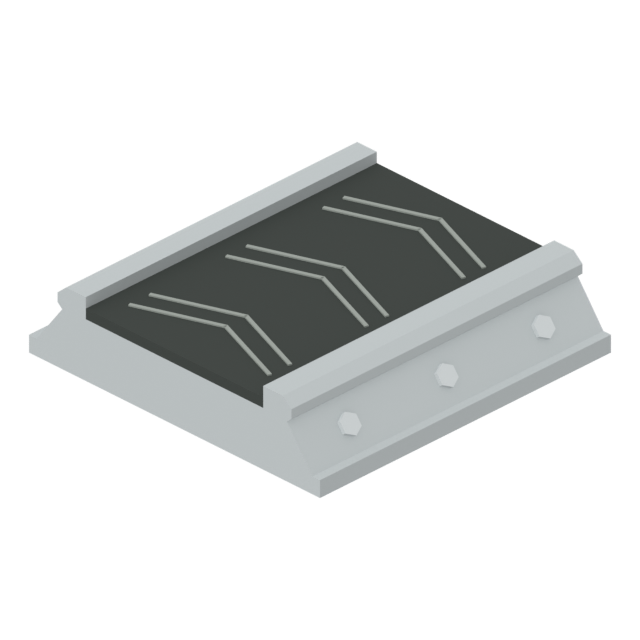
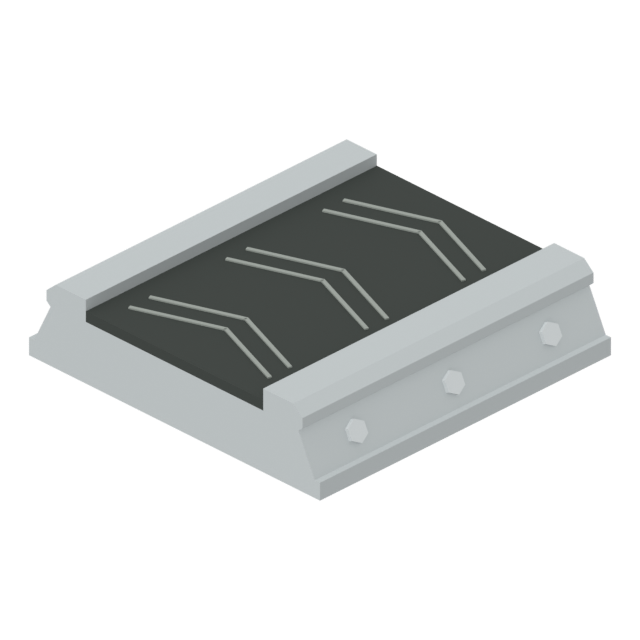
Stand the rail's wall up, slim the ramp's legs, and a ramp without legs
Flattened, the rail's long outer slope made a belt's end look like a
steeply leaning parallelogram. Its head now stands further out and its
wall more upright. The ramp's thick piers become slim trestles: a post
under each rail on a small foot, a tie between, a knee brace up to the
rail. ramp_bare has no trestles, so ramps can be stacked one above
another; belts_stack shows three whole lines stacked.

Claude-Session: https://claude.ai/code/session_01W5XMnWw2PL68atZgiMiQxw

diff --git a/art/catalog/v2.html b/art/catalog/v2.html
@@ -126,7 +126,7 @@
       <figcaption>
         <h3>경사 벨트</h3>
         <p class="recipe">두 칸에 걸쳐 한 칸 높이를 올림</p>
-        <p class="meta">2×1칸 · 높이 1.2칸(3.7스터드) · 출입구 없음 · 삼각형 1,828</p>
+        <p class="meta">2×1칸 · 높이 1.2칸(3.7스터드) · 출입구 없음 · 삼각형 1,876</p>
       </figcaption>
     </figure>
     <figure class="card">

diff --git a/art/v2/belts.py b/art/v2/belts.py
@@ -109,11 +109,11 @@ def ramp_profile(low, high):
     return lift, pitch
 
 
-def ramp(m, low=True, high=True, flow=1):
+def ramp(m, low=True, high=True, flow=1, legs=True):
     """Ramp, 2x1: from the west, low, to the east, one cell higher. Which ends are level depends on
     what it meets (see ramp_profile): level against a flat belt, sloping on against another ramp.
-    It stands on two portal piers, a leg under each rail and a tie between them, the belt's underside
-    open between the legs."""
+    It stands on two slim trestles (with legs=False, on nothing: for ramps stacked one above another,
+    where trestles would stand on the belt below)."""
     lift_at, pitch_at = ramp_profile(low, high)
     n = 24
     xs = [-1.0 + 2.0 * i / n for i in range(n + 1)]
@@ -142,15 +142,20 @@ def ramp(m, low=True, high=True, flow=1):
         bolt(m)
         m.stack.pop()
         m.stack.pop()
-    for xc in (0.10, 0.80):                                   # piers
-        for s in SIDES:
-            ya, yb = sorted((s * 0.27, s * 0.47))
-            m.prism([(xc - 0.17, 0.02), (xc + 0.17, 0.02), (xc + 0.10, lift_at(xc + 0.10) + 0.02), (xc - 0.10, lift_at(xc - 0.10) + 0.02)],
-                    ya, yb, "Y", T)
-            ya, yb = sorted((s * 0.25, s * 0.49))
-            m.prism([(xc - 0.20, 0.0), (xc + 0.20, 0.0), (xc + 0.18, 0.06), (xc - 0.18, 0.06)], ya, yb, "Y", TD)   # foot
-        zt = lift_at(xc) * 0.55
-        m.prism([(xc - 0.05, zt - 0.05), (xc + 0.05, zt - 0.05), (xc + 0.035, zt + 0.05), (xc - 0.035, zt + 0.05)], -0.28, 0.28, "Y", ST)   # tie
+    if not legs:
+        return
+    for xc in (0.10, 0.80):                                   # trestles: a slim post under each rail on a small foot, a tie
+        for s in SIDES:                                       # between the two, and a knee brace from each post up to the rail
+            ya, yb = sorted((s * 0.385, s * 0.435))
+            m.prism([(xc - 0.028, 0.02), (xc + 0.028, 0.02), (xc + 0.028, lift_at(xc + 0.028) + 0.02), (xc - 0.028, lift_at(xc - 0.028) + 0.02)],
+                    ya, yb, "Y", ST)
+            ya, yb = sorted((s * 0.34, s * 0.48))
+            m.prism([(xc - 0.09, 0.0), (xc + 0.09, 0.0), (xc + 0.07, 0.035), (xc - 0.07, 0.035)], ya, yb, "Y", T)
+            xk, zk = xc - 0.24, lift_at(xc) * 0.42            # the brace: from part way up the post to the rail further down the slope
+            ya, yb = sorted((s * 0.395, s * 0.425))
+            m.prism([(xc - 0.02, zk - 0.03), (xc - 0.02, zk + 0.03), (xk, lift_at(xk) + 0.02), (xk - 0.06, lift_at(xk - 0.06) + 0.02)], ya, yb, "Y", ST)
+        zt = lift_at(xc) * 0.62
+        m.prism([(xc - 0.022, zt - 0.022), (xc + 0.022, zt - 0.022), (xc + 0.022, zt + 0.022), (xc - 0.022, zt + 0.022)], -0.40, 0.40, "Y", ST)   # tie
 
 
 def ramp_start(m):
@@ -166,3 +171,8 @@ def ramp_mid(m):
 def ramp_end(m):
     """The last ramp of a run: sloping on from the ramp below, level where it meets the flat belt."""
     ramp(m, False, True)
+
+
+def ramp_bare(m):
+    """A ramp without trestles, level at both ends."""
+    ramp(m, True, True, legs=False)

diff --git a/art/v2/set2.py b/art/v2/set2.py
@@ -1678,18 +1678,24 @@ def belts_demo(m):
 belts_demo.frame, belts_demo.shadow = {"iso": (12.6, 0.9), "side": (7.0, 1.0), "top": (7.4, 0.6), "end": (6.0, 1.0)}, True
 _hero.HEROES["belts_demo"] = belts_demo
 def belts_stack(m):
-    """Not a machine: three belts one cell above another, things riding each under the one above, to
-    judge the room between them. Nothing holds the upper belts up here: what carries a stacked belt
-    is not designed yet."""
+    """Not a machine: three lines of conveyor one cell above another, each two straights, a ramp without
+    trestles and a straight one cell higher, with things riding them, to judge the room between stacked
+    belts and stacked ramps. Nothing holds the upper lines up: what carries a stacked belt is not
+    designed yet."""
     for k in range(3):
-        for x in (-1, 0, 1):
+        for x in (-2, -1):
             with m.at((x, 0, k)):
                 _belts.straight(m)
-        for x, mk in ((-1.1 + 0.35 * k, "h_ore"), (0.1 + 0.2 * k, "h_copper")):
+        with m.at((0.5, 0, k)):
+            _belts.ramp_bare(m)
+        with m.at((2, 0, k + 1)):
+            _belts.straight(m)
+        for x, mk in ((-2.1 + 0.35 * k, "h_ore"), (-0.9 + 0.2 * k, "h_copper")):
             m.box((0.30, 0.28, 0.22), (x, 0, k + BZ + 0.116), mk, bevel=0.05)
+        m.box((0.30, 0.28, 0.22), (2.0, 0, k + 1 + BZ + 0.116), "h_ore", bevel=0.05)
 
 
-belts_stack.frame, belts_stack.shadow = {"iso": (4.6, 1.3), "side": (3.6, 1.3), "top": (3.4, 0.6), "end": (2.2, 1.3)}, True
+belts_stack.frame, belts_stack.shadow = {"iso": (6.6, 1.7), "side": (5.6, 1.8), "top": (5.4, 0.6), "end": (3.2, 1.8)}, True
 _hero.HEROES["belts_stack"] = belts_stack
 F11 = {"iso": (1.9, 0.25), "side": (1.6, 0.4), "top": (1.5, 0.3), "end": (1.6, 0.4)}
 F21R = {"iso": (3.3, 0.7), "side": (2.8, 0.8), "top": (2.6, 0.5), "end": (2.2, 0.8)}

diff --git a/art/v2/base.py b/art/v2/base.py
@@ -396,7 +396,9 @@ def foundation_c(m, top=0.82):
 
 
 # Foundation D's rail, from the belt's edge outward and down to the ground.
-RAIL_D = [(BH, 0.235), (0.372, 0.235), (0.402, 0.209), (0.402, 0.182), (0.386, 0.168), (0.474, 0.05),
+# (Widened on 2026-10-08: with the belt flattened, the rail's long outer slope made the end of a belt look
+# like a steeply leaning parallelogram. The rail's head now stands further out and its wall is more upright.)
+RAIL_D = [(BH, 0.235), (0.408, 0.235), (0.44, 0.207), (0.44, 0.178), (0.426, 0.166), (0.482, 0.05),
           (0.50, 0.05), (0.50, 0.0)]
 # Where a bolt head sits on the rail's sloping outer wall: across, up, and how far the wall leans (from RAIL_D).
 _s0, _s1 = RAIL_D[4], RAIL_D[5]

diff --git a/docs/modeling-principles.md b/docs/modeling-principles.md
@@ -90,6 +90,8 @@
 개발자: "모든 벨트를 우리가 새로 만든 모델에 맞게(규격, 스타일) 다 맞춰서 새로 짜 봐. 모든 컨베이어 벨트는 자연스럽게 이어져야 함. 좌우로 꺾이는 벨트, 위로 올라가는 벨트 등 모든 접합부는 자연스럽게 이어져야 함을 잊지 말 것"(2026-10-07). 벨트 조각은 `art/v2/belts.py`에 있습니다.
 
 - **벨트는 낮고 납작합니다.** 벨트 면의 높이는 0.203칸(0.6스터드), 난간 꼭대기는 0.235칸입니다. 처음에는 0.305칸과 0.352칸이었는데, 개발자가 "벨트 높이부터 좀 줄이자, 한 1/3 정도만 납작하게. 새티스팩토리 보니까 벨트를 수직으로 쌓아서 아이템이 그 사이를 지나가더라"고 해서 3분의 2로 낮췄습니다(2026-10-08). 한 칸 위에 벨트를 또 놓으면 아래 벨트의 면에서 위 벨트의 밑까지 0.8칸(2.4스터드)이 남습니다. 높이는 `base.BZ`와 `base.RAIL_D` 두 곳에서만 정하고, 볼트 자리와 터널의 어둠은 거기서 계산됩니다. 쌓은 벨트를 무엇이 받치는지는 아직 정하지 않았습니다(`belts_stack`의 그림에서는 떠 있습니다).
+- **난간의 벽은 곧추세웁니다.** 납작하게 만든 직후에는 난간의 바깥 벽이 길게 누워 있어서, 벨트의 끝이 "너무 가파른 평행사변형처럼" 보였습니다(개발자). 난간 머리를 바깥으로 내어 몸통을 넓히고 벽을 세웠습니다.
+- **경사의 다리는 가는 틀입니다.** 굵은 기둥은 개발자가 "지금 너무 굵음"이라고 했습니다. 난간 밑의 가는 기둥, 작은 발, 두 기둥 사이의 가로대, 기둥에서 난간으로 올라가는 버팀대로 만듭니다. 다리가 없는 경사(`ramp_bare`)도 있어서 경사끼리 위아래로 겹쳐 놓을 수 있습니다.
 - **모든 조각은 같은 단면으로 끝납니다.** 난간과 바닥이 한 덩어리인 단면(`d.SECTION`)이 칸의 가장자리에서 직각으로 끝나므로, 어느 조각끼리든, 기계의 입구와도 턱 없이 이어집니다. 새 조각을 만들 때 이 단면을 바꾸거나 칸 가장자리에서 다른 모양으로 끝내지 않습니다.
 - **코너는 단면 전체를 칸의 안쪽 모서리를 중심으로 돌려서 만듭니다.** 난간 둘과 바닥과 벨트가 함께 휩니다. 난간을 직각으로 맞대지 않습니다. 화살표와 볼트도 휘는 방향을 따라 돕니다.
 - **경사는 만나는 상대에 따라 끝이 달라집니다.** 평평한 벨트와 만나는 끝은 수평으로 시작하거나 끝나서 난간이 꺾임 없이 이어지고, 다른 경사와 만나는 끝은 기울기를 그대로 유지합니다. 처음에는 모든 경사의 양 끝을 수평으로 만들었는데, 개발자가 "경사면을 여러 개 이을 때 롤러코스터마냥 꿀렁댈 것 같다"고 짚었습니다. 그래서 모양이 넷입니다: 혼자 놓인 것(양 끝 수평), 줄의 첫 칸(`ramp_start`), 가운데(`ramp_mid`), 마지막 칸(`ramp_end`). 게임에서는 플레이어가 고르는 것이 아니라 이웃을 보고 자동으로 정해져야 합니다(아직 안 만듦). 밑은 꽉 채운 둑이 아니라 다리 둘(난간 밑의 기둥과 그 사이의 가로대)이 받칩니다.
